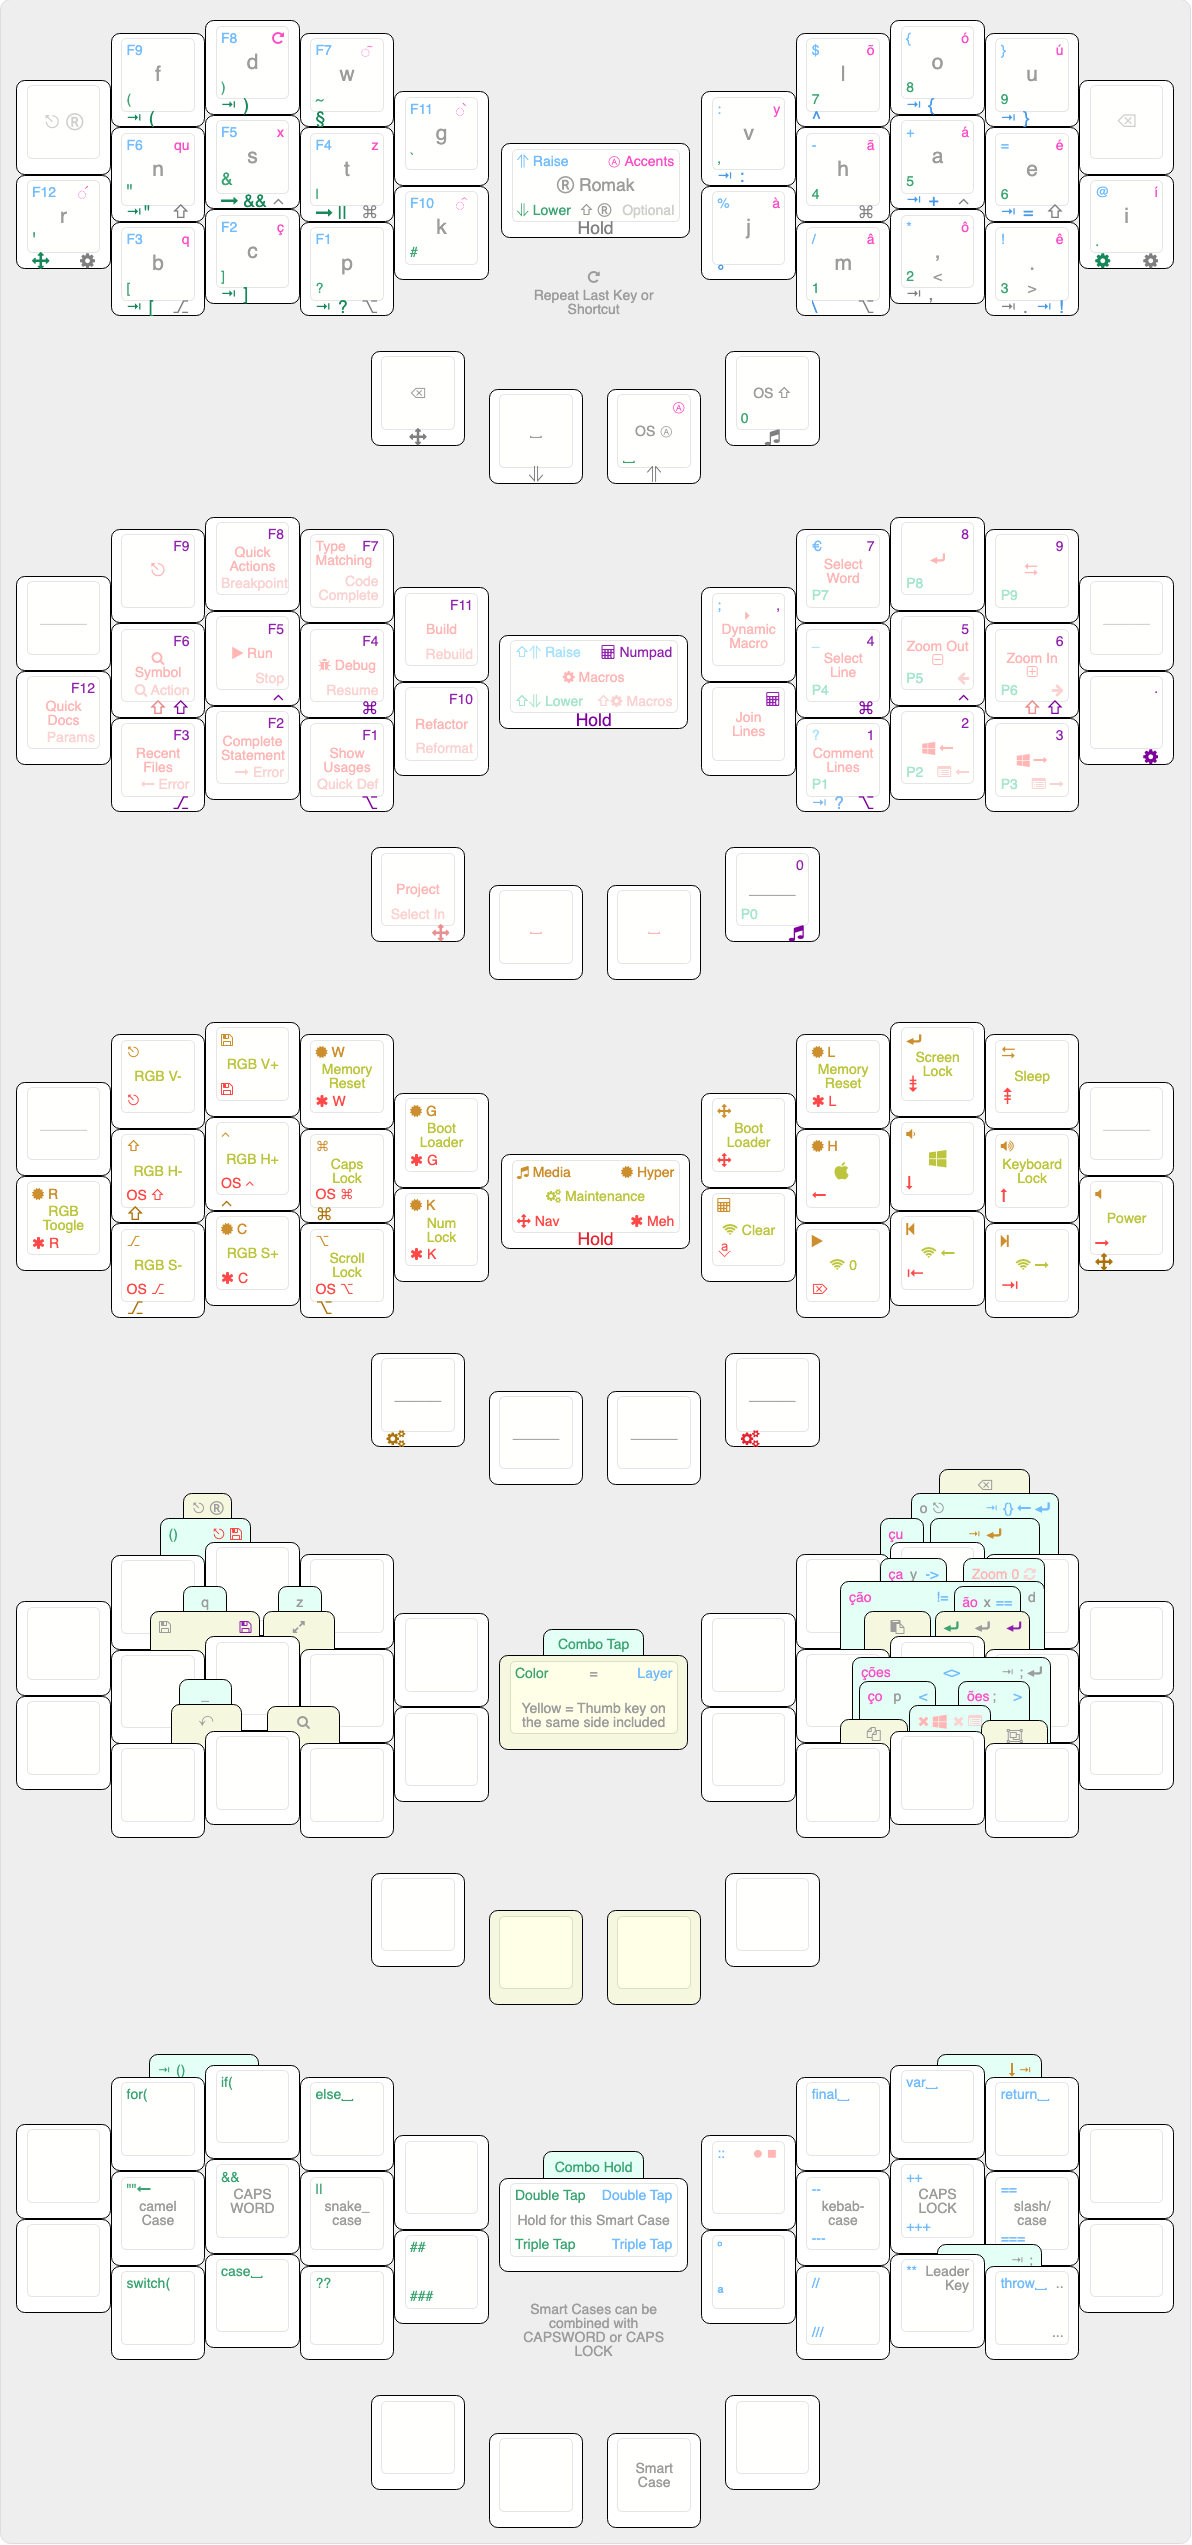
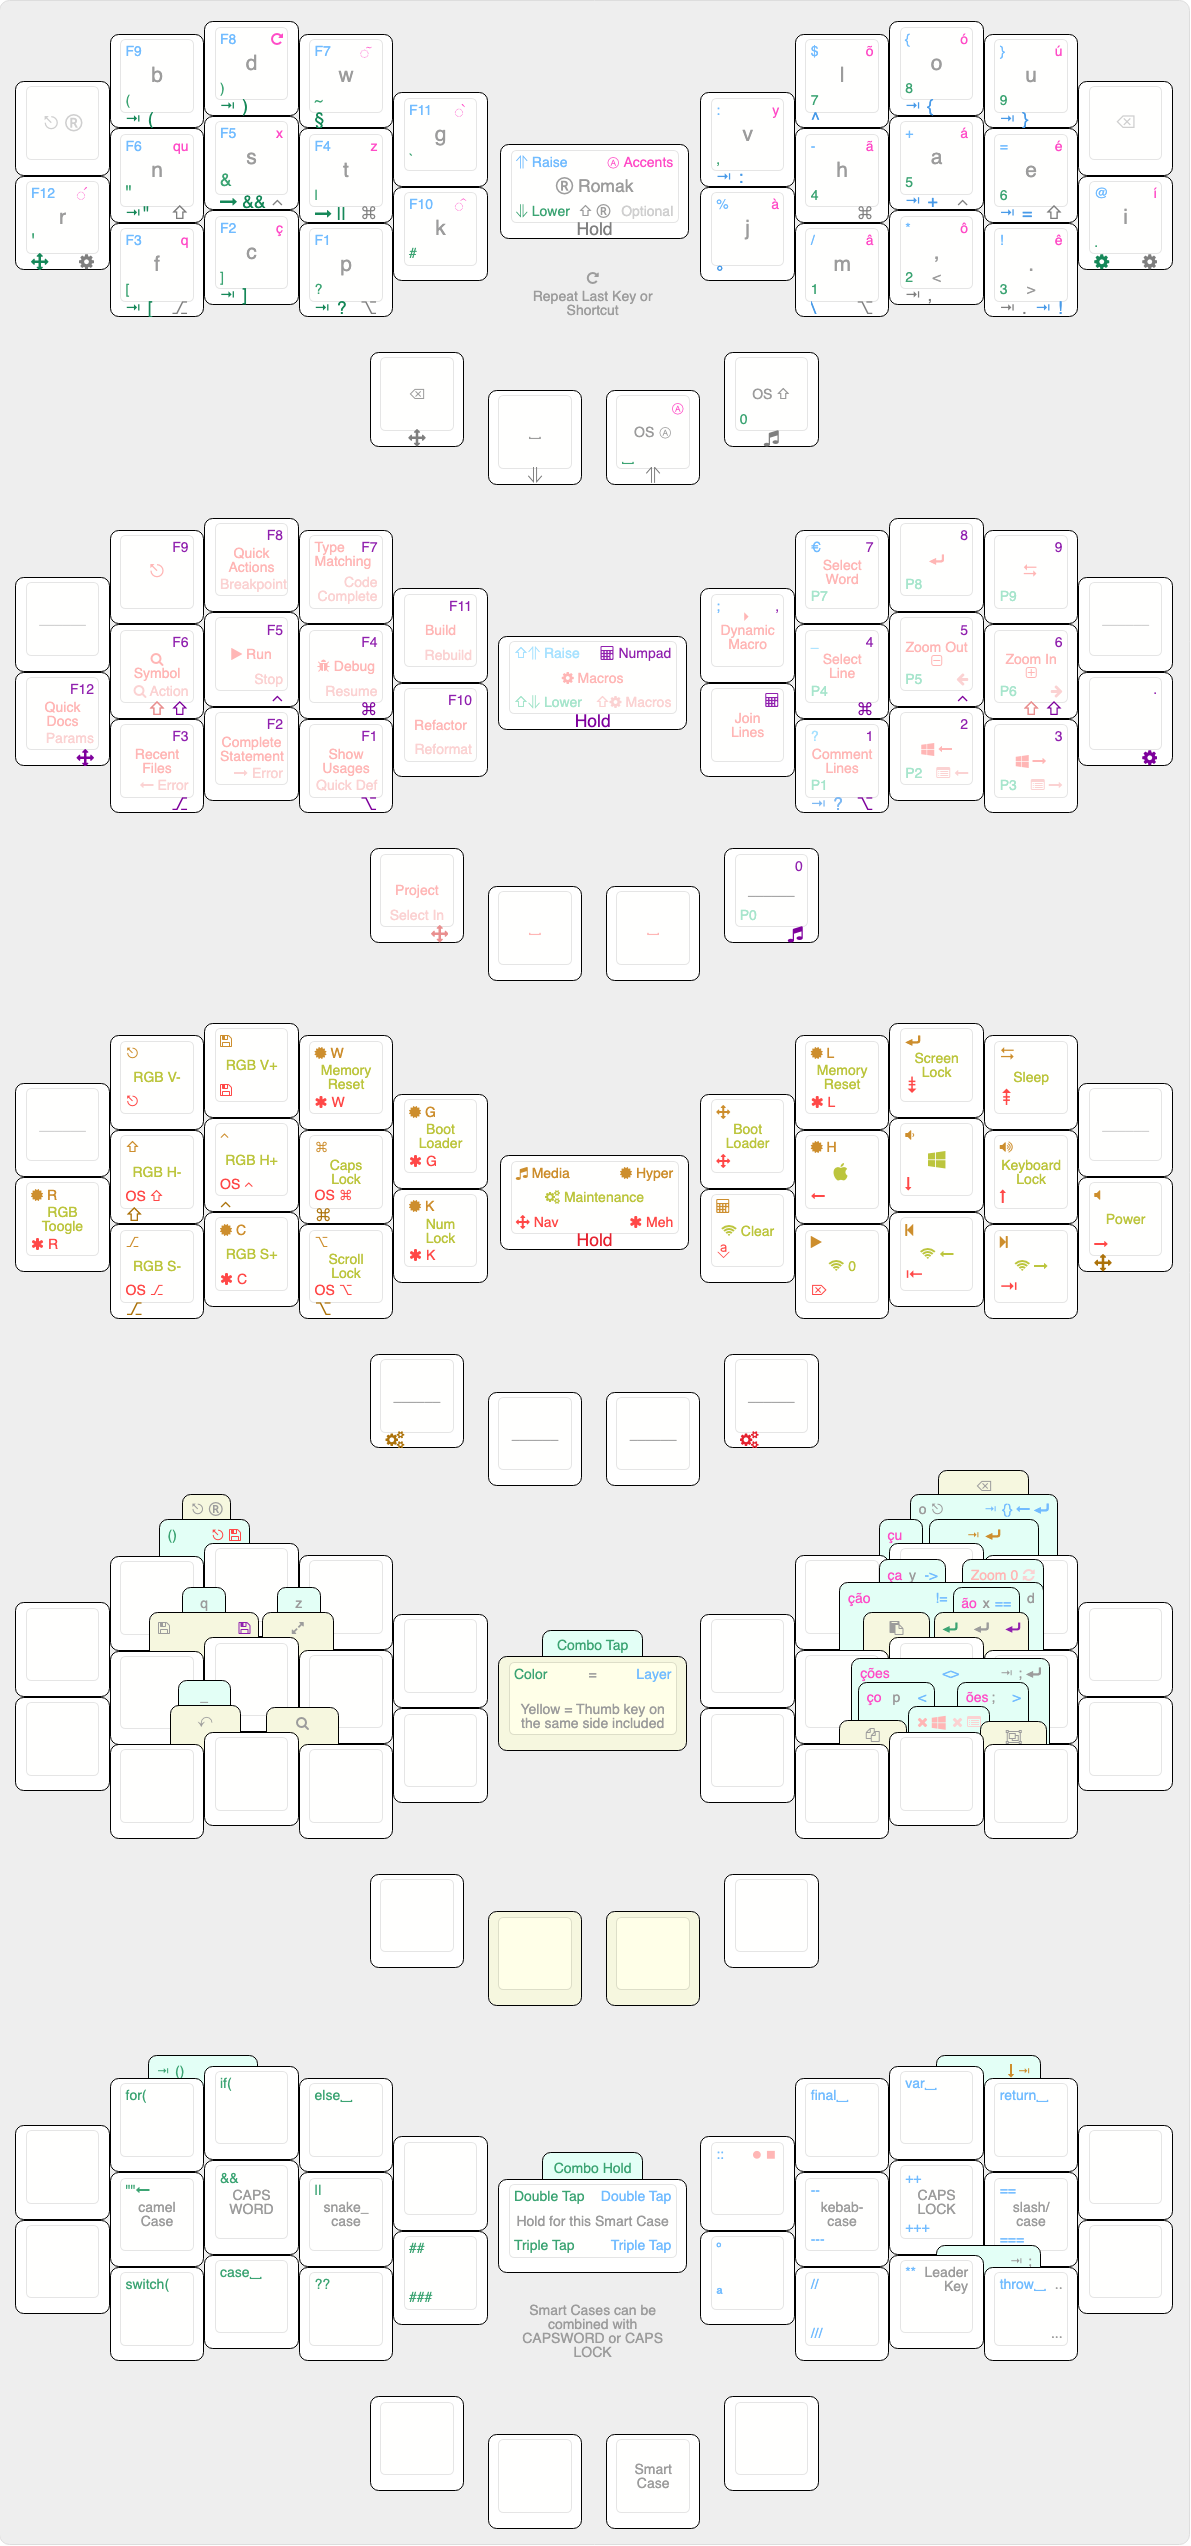
swap f and b to improve bigram nf | add NAV access to NUMPAD

diff --git a/src/qmk/users/rafaelromao/definitions/keymap_blocks.h b/src/qmk/users/rafaelromao/definitions/keymap_blocks.h
@@ -5,23 +5,23 @@
 
 // clang-format off
 
-#define ___________________ROMAK_L1__________           MC_ESCC , KC_F    , KC_D    , KC_W    
-#define ___________________ROMAK_L2____________________ KCR_MAC , LSFTT_N , LCTLT_S , LGUIT_T , KC_G
-#define           _________ROMAK_L3____________________           RALTT_B , KC_C    , LALTT_P , KC_K
+#define ___________________ROMAK_L1__________           MC_ESCC , KC_B    , KC_D    , KC_W    
+#define ___________________ROMAK_L2____________________ MAC_KCR , LSFTT_N , LCTLT_S , LGUIT_T , KC_G
+#define           _________ROMAK_L3____________________           RALTT_F , KC_C    , LALTT_P , KC_K
 #define                               ____ROMAK_L4_____                               NAV_BSP , LOW_SPC
 
 #define           _________ROMAK_R1____________________           KC_L    , KC_O    , KC_U    , KC_BSPC
-#define ___________________ROMAK_R2____________________ KC_V    , RGUIT_H , RCTLT_A , RSFTT_E , KCI_MAC
+#define ___________________ROMAK_R2____________________ KC_V    , RGUIT_H , RCTLT_A , RSFTT_E , MAC_KCI
 #define ___________________ROMAK_R3__________           KC_J    , LALTT_M , TD_COMM , TD_DOT  
 #define ____ROMAK_R4_____                               RAI_ACT , MED_CAS 
 
 #define ___________________NUMPAD_L1_________           _______ , KC_F9   , KC_F8   , KC_F7   
-#define ___________________NUMPAD_L2___________________ KC_F12  , SF_F6   , CT_F5   , GU_F4   , KC_F11
+#define ___________________NUMPAD_L2___________________ NAV_F12 , SF_F6   , CT_F5   , GU_F4   , KC_F11
 #define           _________NUMPAD_L3___________________           AL_F3   , KC_F2   , AL_F1   , KC_F10
-#define                               ____NUMPAD_L4____                               KC_BSPC , KC_SPC
+#define                               ____NUMPAD_L4____                               NAV_BSP , KC_SPC
 
 #define           _________NUMPAD_R1___________________           KC_7    , KC_8    , KC_9    , _______
-#define ___________________NUMPAD_R2___________________ KC_COMM , GU_4    , CT_5    , SF_6    , DOT_MAC
+#define ___________________NUMPAD_R2___________________ KC_COMM , GU_4    , CT_5    , SF_6    , MAC_DOT
 #define ___________________NUMPAD_R3_________           TG_NUM  , AL_1    , KC_2    , KC_3    
 #define ____NUMPAD_R4____                               RAI_SPC , MED_0
 
@@ -51,7 +51,7 @@
 #define                               ____LOWER_L4_____                               _______ , _______
 
 #define           _________LOWER_R1____________________           KC_7    , KC_8    , KC_9    , _______
-#define ___________________LOWER_R2____________________ KC_COMM , KC_4    , KC_5    , KC_6    , DOT_MAC
+#define ___________________LOWER_R2____________________ KC_COMM , KC_4    , KC_5    , KC_6    , MAC_DOT
 #define ___________________LOWER_R3__________           TG_NUM  , KC_1    , KC_2    , KC_3    
 #define ____LOWER_R4_____                               RAI_SPC , MED_0
 

diff --git a/src/qmk/users/rafaelromao/features/combos.c b/src/qmk/users/rafaelromao/features/combos.c
@@ -36,7 +36,7 @@ const uint16_t PROGMEM r_med_ent_combo[] = {KC_ENT, KC_TAB, COMBO_END};
 
 // Accents
 
-const uint16_t PROGMEM l_acc_esc_combo[]  = {KC_SPC, KC_F, KC_X, COMBO_END};
+const uint16_t PROGMEM l_acc_esc_combo[]  = {KC_SPC, KC_B, KC_X, COMBO_END};
 const uint16_t PROGMEM r_acc_ao_combo[]   = {MC_SQ_A, MC_SQ_E, COMBO_END};
 const uint16_t PROGMEM r_acc_cu_combo[]   = {MC_TL_O, MC_SQ_O, COMBO_END};
 const uint16_t PROGMEM r_acc_ca_combo[]   = {MC_TL_A, MC_SQ_A, COMBO_END};
@@ -54,10 +54,10 @@ const uint16_t PROGMEM r_mac_clo_combo[] = {MC_SWLE, MC_SWRI, COMBO_END};
 
 const uint16_t PROGMEM l_rom_z_combo[]   = {LCTLT_S, LGUIT_T, COMBO_END};
 const uint16_t PROGMEM l_rom_q_combo[]   = {LSFTT_N, LCTLT_S, COMBO_END};
-const uint16_t PROGMEM l_rom_esc_combo[] = {LOW_SPC, KC_F, KC_D, COMBO_END};
-const uint16_t PROGMEM l_rom_und_combo[] = {LOW_SPC, RALTT_B, KC_C, COMBO_END};
+const uint16_t PROGMEM l_rom_esc_combo[] = {LOW_SPC, KC_B, KC_D, COMBO_END};
+const uint16_t PROGMEM l_rom_und_combo[] = {LOW_SPC, RALTT_F, KC_C, COMBO_END};
 const uint16_t PROGMEM l_rom_sav_combo[] = {LOW_SPC, LSFTT_N, LCTLT_S, COMBO_END};
-const uint16_t PROGMEM l_rom_usc_combo[] = {RALTT_B, KC_C, COMBO_END};
+const uint16_t PROGMEM l_rom_usc_combo[] = {RALTT_F, KC_C, COMBO_END};
 const uint16_t PROGMEM l_rom_ful_combo[] = {LOW_SPC, LCTLT_S, LGUIT_T, COMBO_END};
 const uint16_t PROGMEM l_rom_fin_combo[] = {LOW_SPC, KC_C, LALTT_P, COMBO_END};
 

diff --git a/src/qmk/users/rafaelromao/features/taphold.c b/src/qmk/users/rafaelromao/features/taphold.c
@@ -8,7 +8,6 @@ uint16_t get_quick_tap_term(uint16_t keycode, keyrecord_t *record) {
         case RAI_SPC:
         case RAI_ACT:
         case NAV_BSP:
-        case NAV_F12:
         case NAV_PRJ:
         case MED_CAS:
         case RAI_TAC:
@@ -28,9 +27,11 @@ uint16_t get_quick_tap_term(uint16_t keycode, keyrecord_t *record) {
 uint16_t get_tapping_term(uint16_t keycode, keyrecord_t *record) {
     switch (keycode) {
         case QK_MOD_TAP ... QK_MOD_TAP_MAX:
-        case KCR_MAC:
-        case KCI_MAC:
-        case DOT_MAC:
+        case MAC_KCR:
+        case MAC_KCI:
+        case MAC_DOT:
+        case NAV_F12:
+        case NAV_SQO:
             return 300;
         default:
             return TAPPING_TERM;

diff --git a/src/qmk/users/rafaelromao/definitions/keycodes.h b/src/qmk/users/rafaelromao/definitions/keycodes.h
@@ -135,7 +135,7 @@ enum {
 
 #define LALTT_P LALT_T(KC_P)
 #define LALTT_M LALT_T(KC_M)
-#define RALTT_B RALT_T(KC_B)
+#define RALTT_F RALT_T(KC_F)
 #define AL_F1 LALT_T(KC_F1)
 #define AL_1 LALT_T(KC_1)
 #define AL_F3 RALT_T(KC_F3)
@@ -171,9 +171,9 @@ enum {
 #define RAI_SPC LT(_RAISE, KC_SPC)
 #define RAI_ACT OSL(_ACCENT)
 
-#define KCR_MAC LT(_MACROS, KC_R)
-#define KCI_MAC LT(_MACROS, KC_I)
-#define DOT_MAC LT(_MACROS, KC_DOT)
+#define MAC_KCR LT(_MACROS, KC_R)
+#define MAC_KCI LT(_MACROS, KC_I)
+#define MAC_DOT LT(_MACROS, KC_DOT)
 
 // Layer transitions
 #define MO_MED MO(_MEDIA)
